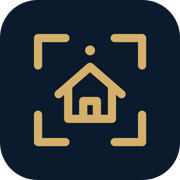
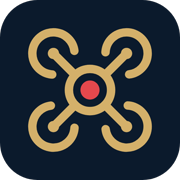
Novo símbolo: drone com lente gravando

Changed region(s): [[0.1389, 0.1389, 0.8611, 0.8611], [0.4722, 0.25, 0.5278, 0.3056], [0.4722, 0.3333, 0.5278, 0.3611]]

diff --git a/index.html b/index.html
@@ -173,7 +173,7 @@ footer .wrap{display:flex;flex-wrap:wrap;justify-content:space-between;gap:12px;
 <nav class="nav" aria-label="Principal">
   <div class="wrap">
     <a class="brand" href="#topo">
-      <svg class="mark" viewBox="0 0 48 48" aria-hidden="true" fill="none" stroke="var(--accent)" stroke-width="2.8" stroke-linecap="round" stroke-linejoin="round"><path d="M5 15V5h10M33 5h10v10M43 33v10H33M15 43H5V33"/><path d="M12.5 25.5L24 15.5l11.5 10"/><path d="M16 22.5V34.5h16V22.5"/><path d="M21.5 34.5v-6.5h5v6.5"/><circle cx="24" cy="9.5" r="1.7" fill="var(--accent)" stroke="none"/></svg>
+      <svg class="mark" viewBox="0 0 48 48" aria-hidden="true" fill="none" stroke="var(--accent)" stroke-width="2.8" stroke-linecap="round"><circle cx="11" cy="11" r="7.5" pathLength="100" stroke-dasharray="72 28" transform="rotate(95 11 11)"/><circle cx="37" cy="11" r="7.5" pathLength="100" stroke-dasharray="72 28" transform="rotate(185 37 11)"/><circle cx="11" cy="37" r="7.5" pathLength="100" stroke-dasharray="72 28" transform="rotate(5 11 37)"/><circle cx="37" cy="37" r="7.5" pathLength="100" stroke-dasharray="72 28" transform="rotate(275 37 37)"/><path d="M18.7 18.7L11 11M29.3 18.7L37 11M18.7 29.3L11 37M29.3 29.3L37 37"/><g fill="var(--accent)" stroke="none"><circle cx="11" cy="11" r="1.9"/><circle cx="37" cy="11" r="1.9"/><circle cx="11" cy="37" r="1.9"/><circle cx="37" cy="37" r="1.9"/></g><circle cx="24" cy="24" r="7.5"/><circle cx="24" cy="24" r="3.3" fill="#e5484d" stroke="none" class="rec-dot"/></svg>
       <span>Joaquim Simas Reis<small>Captação aérea de imóveis</small></span>
     </a>
     <ul>
